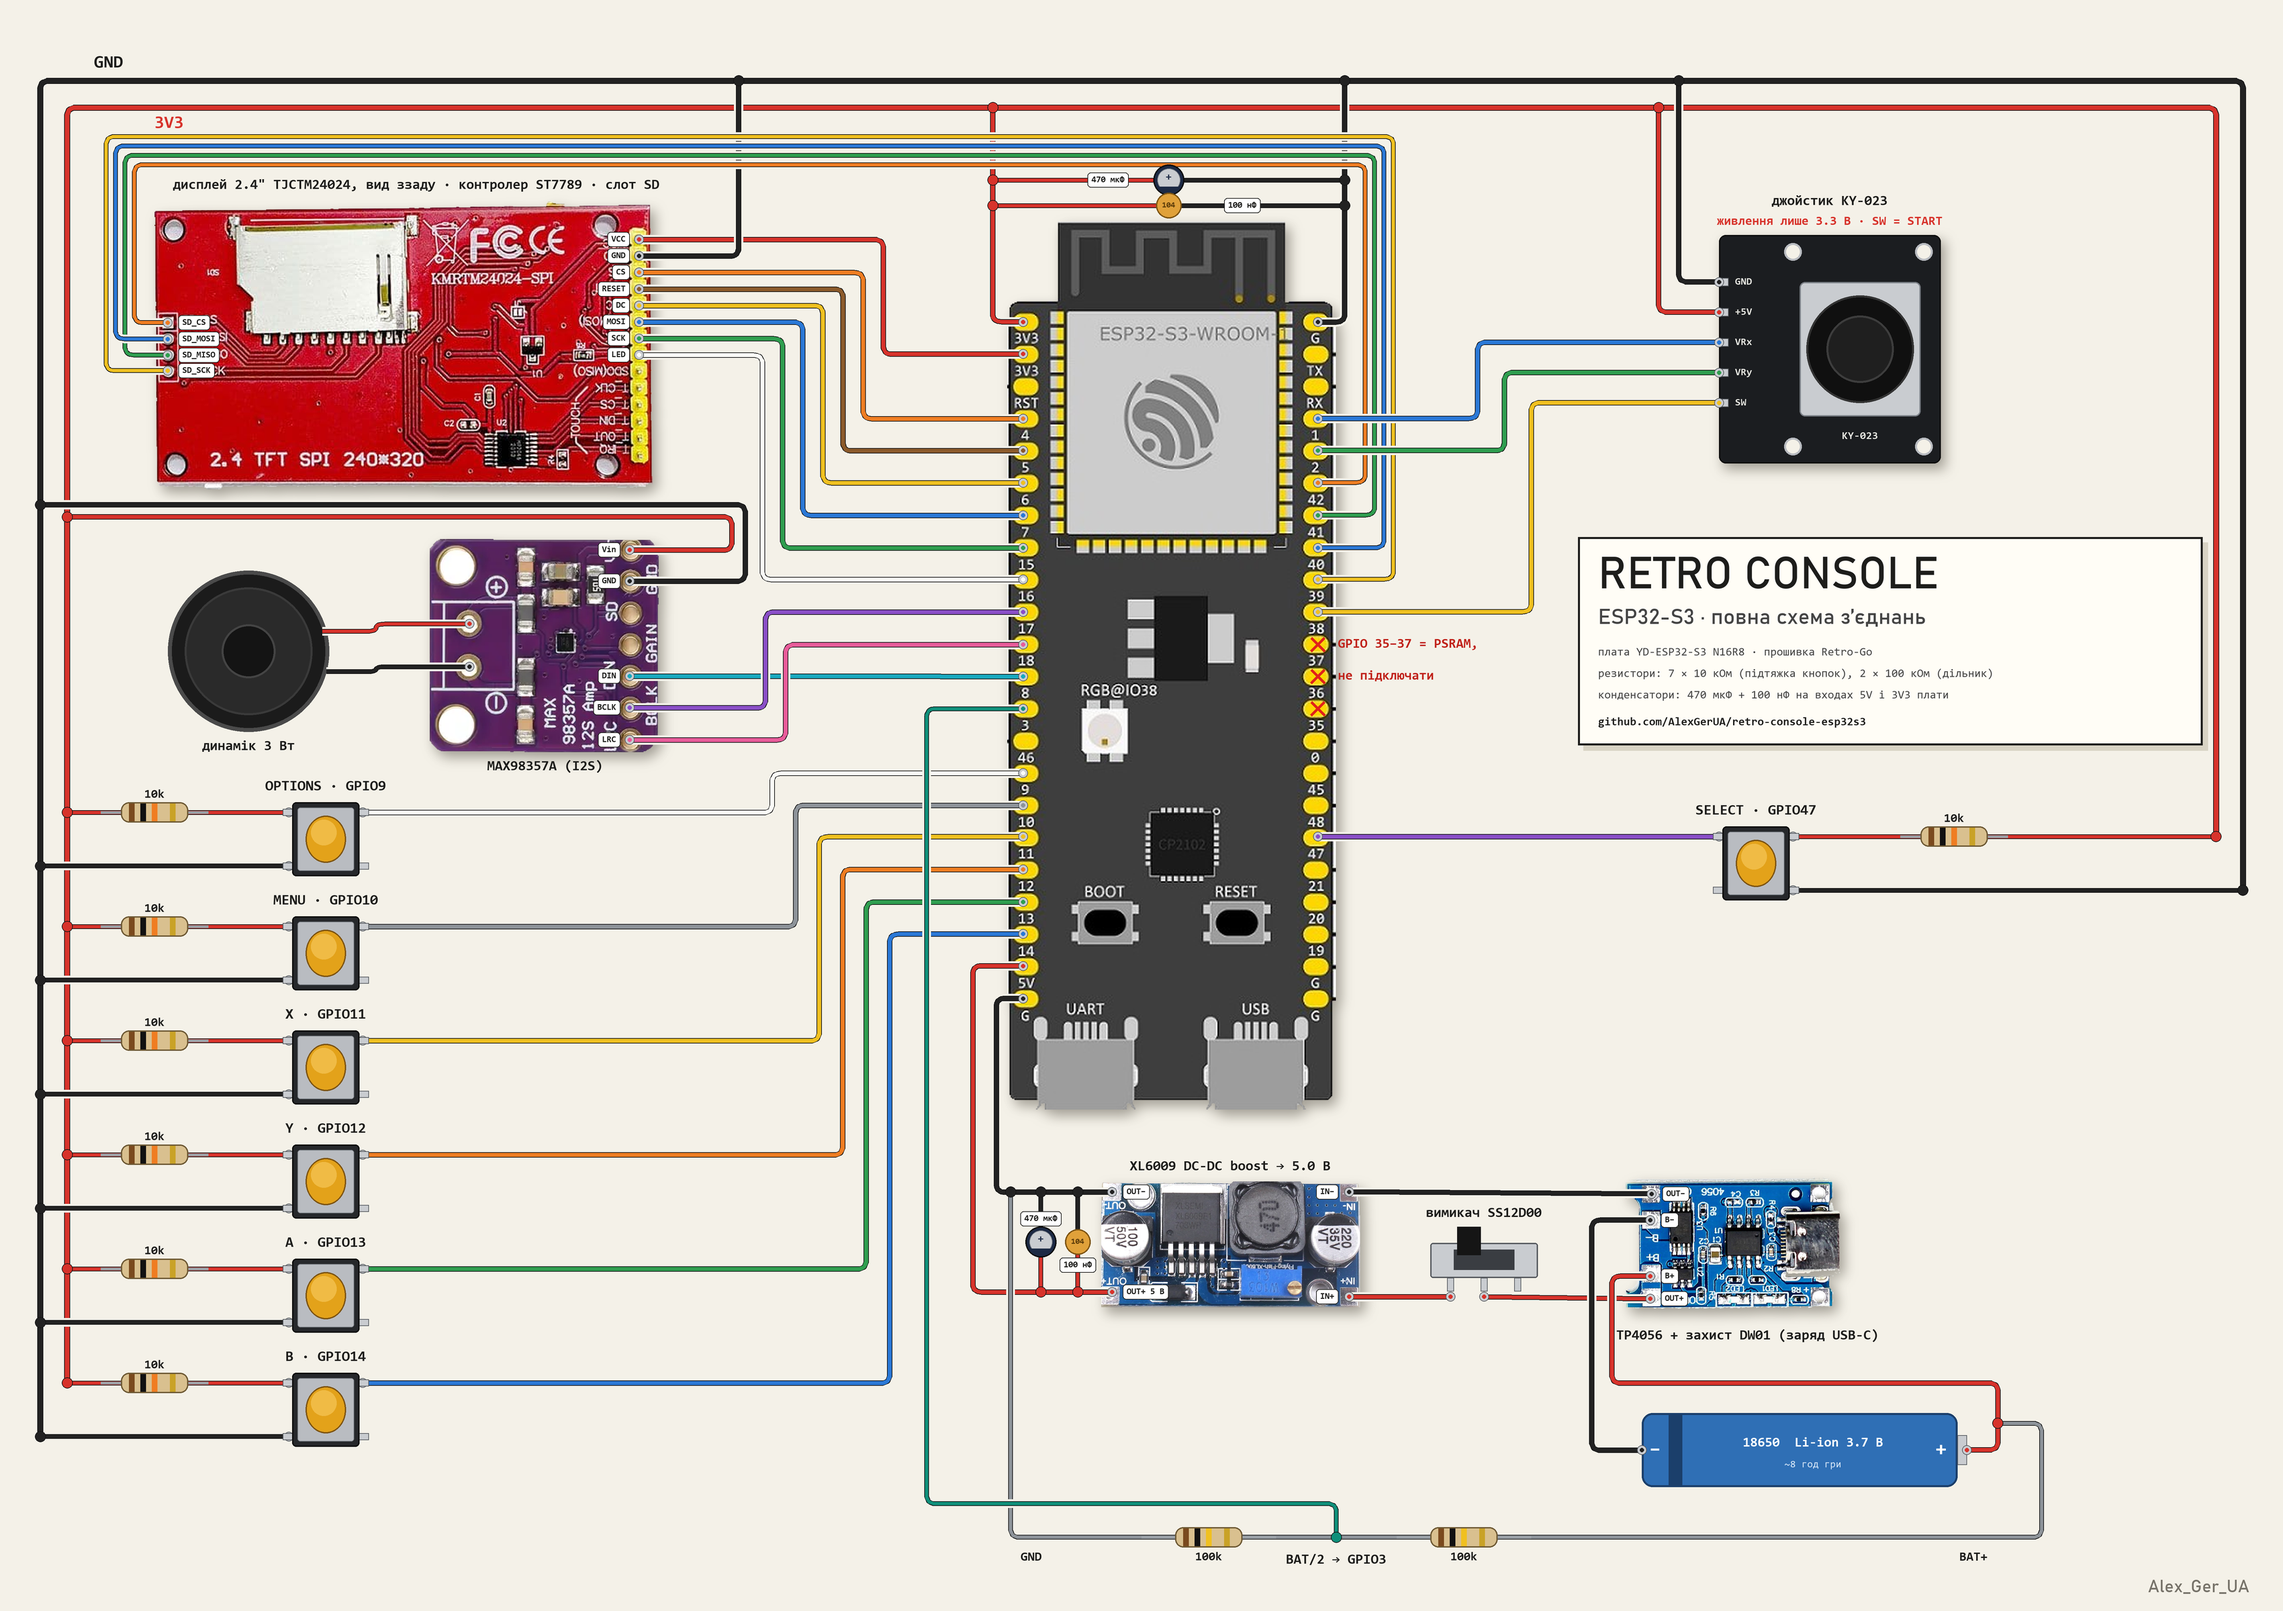
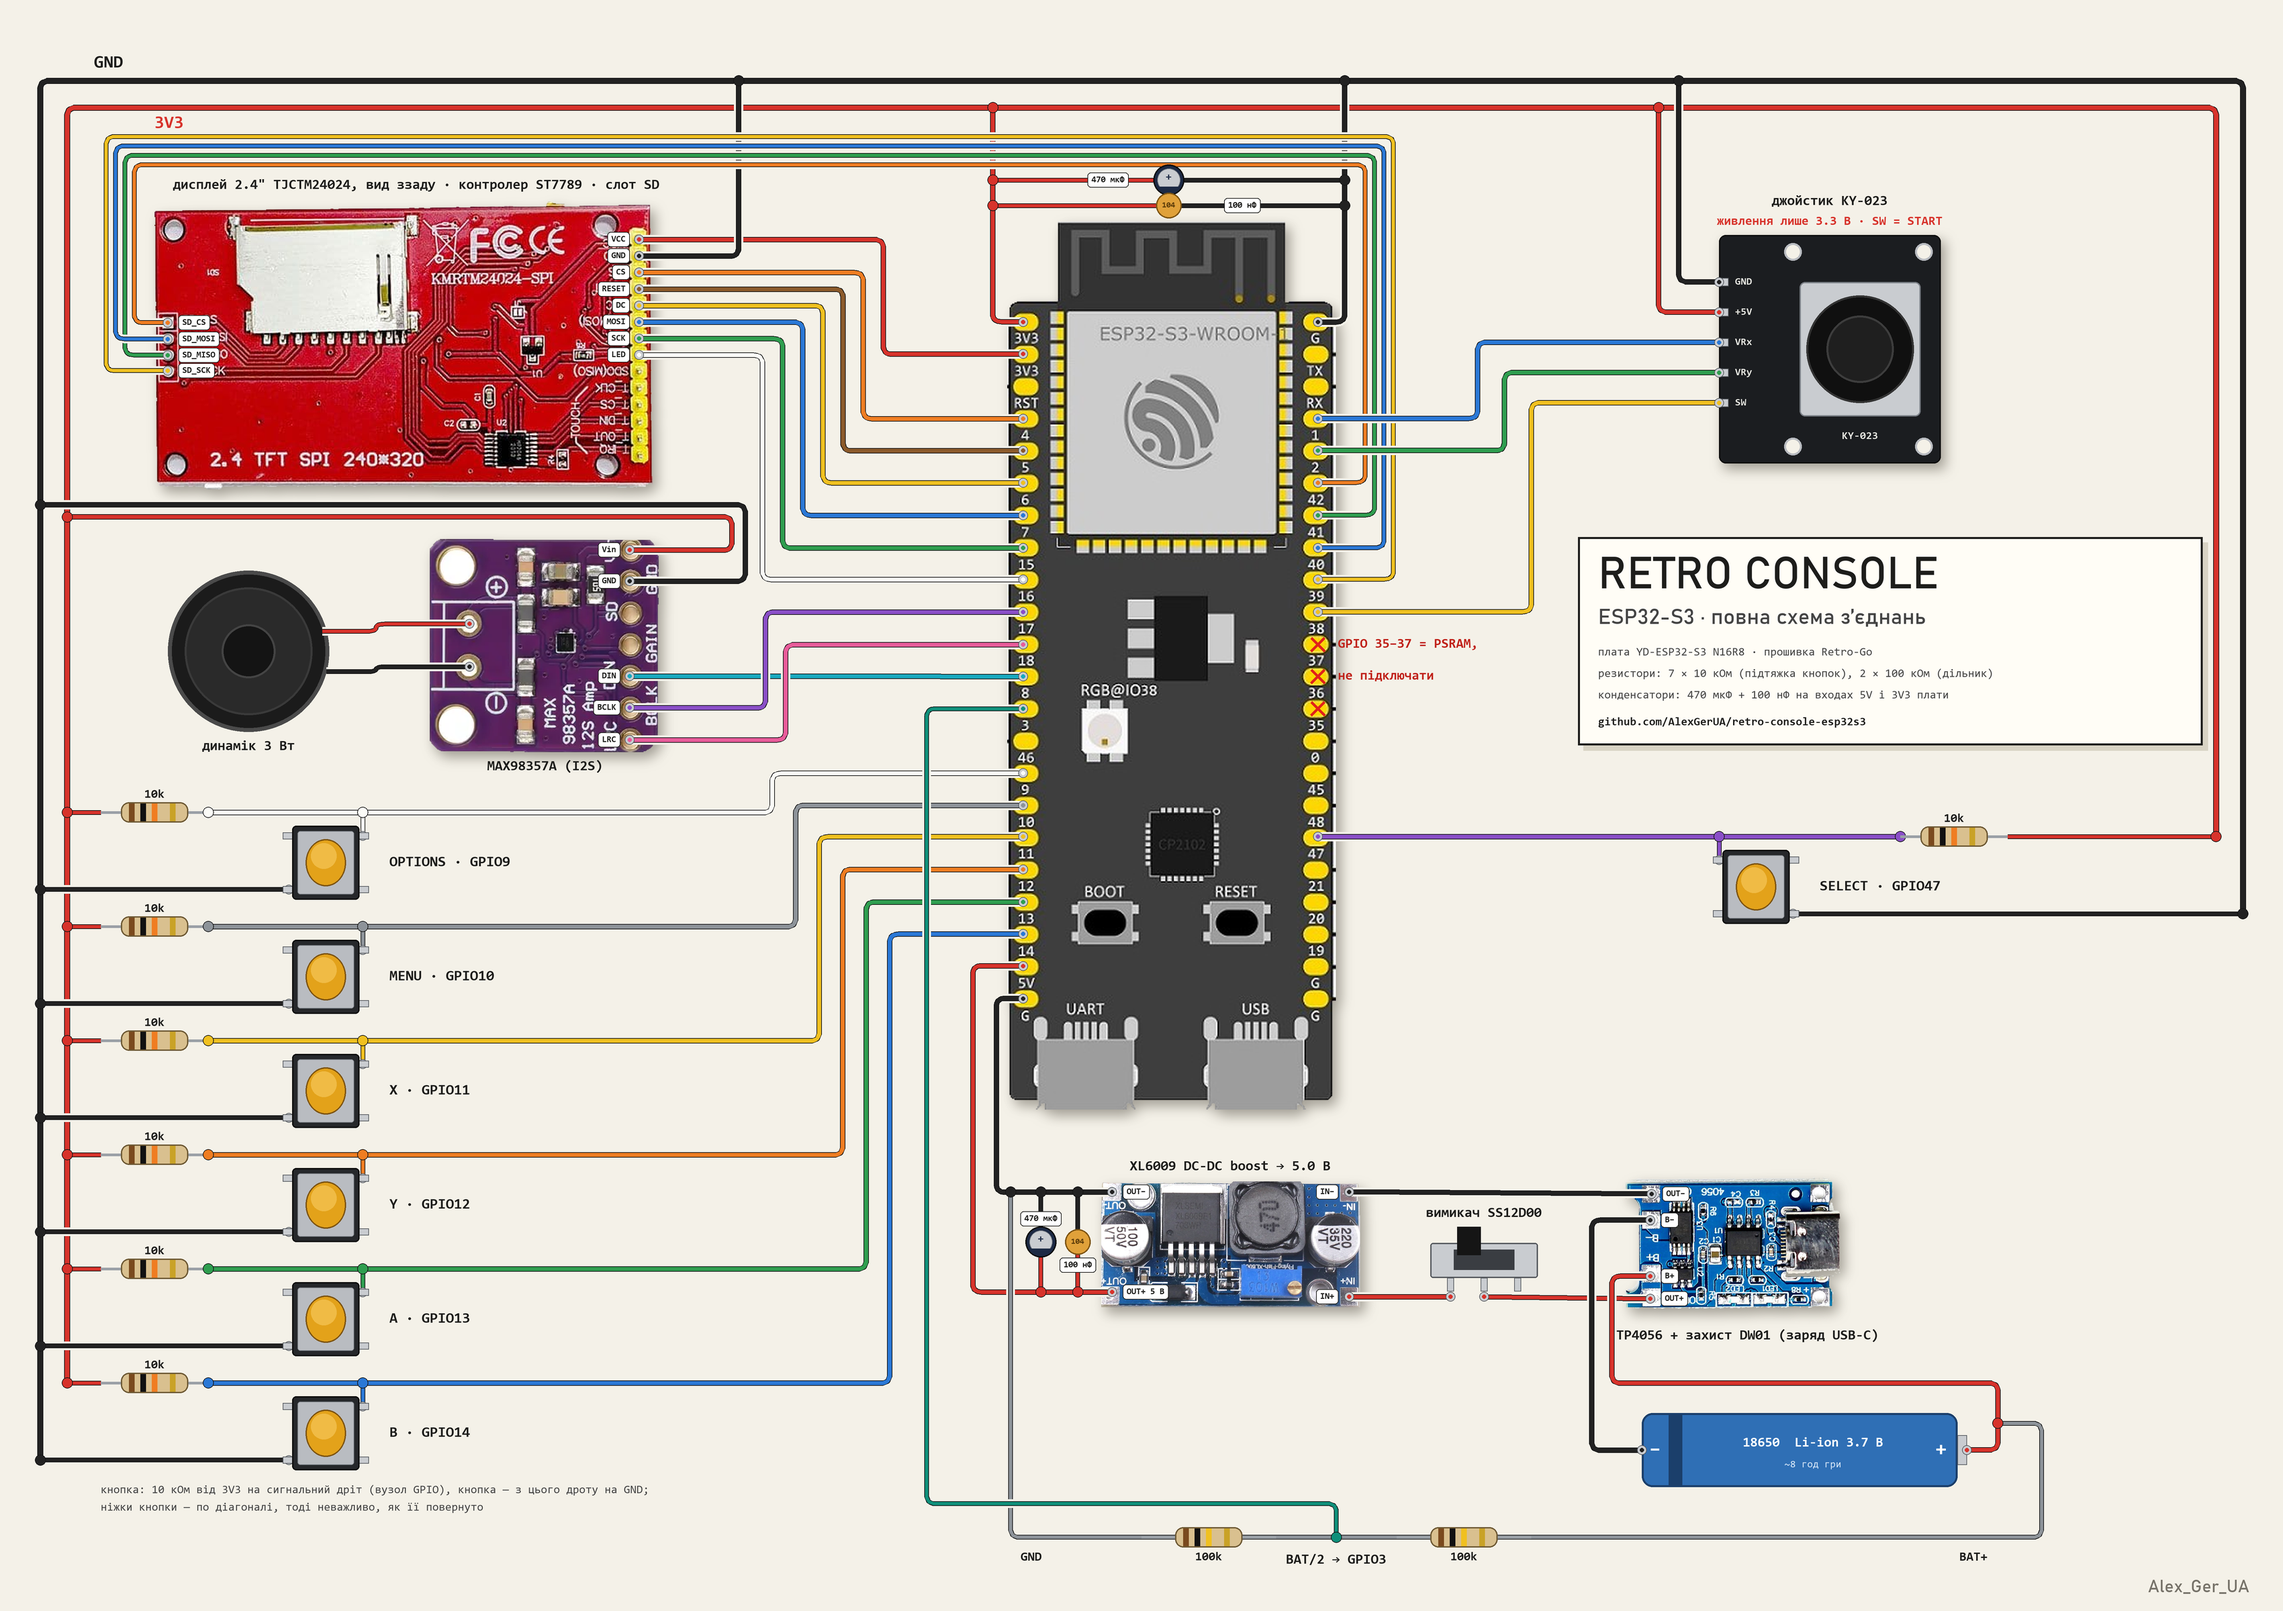
Pinout: pull-up resistor on the signal wire, button from the wire to GND
Why: in the old diagram the 10k pull-up went to one leg of the tact switch
and the GPIO wire to another leg. The pull-up then reached the GPIO only
through the button's internal leg pair, so the circuit depended on which
legs of a particular 4-leg switch are joined inside. Turn the button 90
degrees and it reads "pressed" forever, or the GPIO floats.

Now (same as the Bruce Smoochie board): 10k goes from 3V3 straight onto the
signal wire that runs to the GPIO, and the button hangs off that same wire
to GND, using diagonal legs (a diagonal pair is always the switched pair).
Works with any button type and any orientation.

README: new "How to wire the buttons" section with a text schematic, the
reason, and a multimeter check.

Changed region(s): [[0.0, 0.4688, 0.2182, 0.9375], [0.7482, 0.5, 0.8729, 0.5938]]

diff --git a/docs/make_pinout.py b/docs/make_pinout.py
@@ -152,8 +152,10 @@ def cap(x, y0, y1, val='100n'):
     text(x - 28, cy, val, 17, anchor='rm')
 
 
-def button(x, y, name, gpio):
-    """12x12 tact switch. (x, y) = top-left leg, legs 110 apart horizontally, 80 vertically."""
+def button(x, y, name, gpio, label_at=None):
+    """12x12 tact switch. (x, y) = top-left leg, legs 110 apart horizontally, 80 vertically.
+    Wired by DIAGONAL legs (top-right / bottom-left or top-left / bottom-right): a diagonal pair is
+    always the switched pair, whichever way the 4-leg button is turned."""
     for lx in (x, x + 110):
         for ly in (y, y + 80):
             d.rectangle(P(lx - 9, ly - 5, lx + 9, ly + 5), fill='#c9ccd0', outline='#55595e', width=S)
@@ -161,7 +163,10 @@ def button(x, y, name, gpio):
     d.rounded_rectangle(P(x + 13, y - 7, x + 97, y + 87), 4 * S, fill='#b9bcc1', outline='#7a7f86', width=S)
     d.ellipse(P(x + 25, y + 5, x + 85, y + 75), fill='#e3a21a', outline='#7d5412', width=2 * S)
     d.ellipse(P(x + 33, y + 11, x + 71, y + 49), fill='#f0bb45')
-    text(x + 55, y - 38, f'{name} · GPIO{gpio}', 22, anchor='mm')
+    if label_at is None:
+        text(x + 55, y - 38, f'{name} · GPIO{gpio}', 22, anchor='mm')
+    else:
+        text(label_at[0], label_at[1], f'{name} · GPIO{gpio}', 22)
 
 
 # =====================================================================================
@@ -203,7 +208,7 @@ CELL0, CELL_DY = 1210, 170
 last = CELL0 + 5 * CELL_DY
 SEL_Y = YR['47']
 
-wire([(GND_XL, last + 80), (GND_XL, GND_Y), (GND_XR, GND_Y), (GND_XR, SEL_Y + 80)], 'black', 7, (False, False))
+wire([(GND_XL, last + 115), (GND_XL, GND_Y), (GND_XR, GND_Y), (GND_XR, SEL_Y + 115)], 'black', 7, (False, False))
 wire([(V33_XL, last), (V33_XL, V33_Y), (V33_XR, V33_Y), (V33_XR, SEL_Y)], 'red', 7, (False, False))
 text(GND_XL + 80, GND_Y - 26, 'GND', 26)
 text(V33_XL + 130, V33_Y + 24, '3V3', 26, C['red'])
@@ -268,29 +273,46 @@ wire([(486, 1000), (560, 1000), (560, SPK_M[1]), SPK_M], 'black', 5, (False, Tru
 text(812, 1142, 'MAX98357A (I2S)', 21, anchor='mm')
 
 # =====================================================================================
-#  BUTTONS (left column) — each: 10k to 3V3, button to GND
+#  BUTTONS — 10k from 3V3 straight onto the SIGNAL wire (the GPIO node), the button hangs
+#  off that same wire to GND. Nothing depends on the button's internal leg pairs.
 # =====================================================================================
+BTN_DROP = 35                      # signal wire y -> top legs of the button
 cells = [('OPTIONS', '9', 'white'), ('MENU', '10', 'grey'), ('X', '11', 'yellow'), ('Y', '12', 'orange'),
          ('A', '13', 'green'), ('B', '14', 'blue')]
+BX = 430
 for i, (name, pin, col) in enumerate(cells):
-    yc = CELL0 + i * CELL_DY
+    yc = CELL0 + i * CELL_DY           # signal wire: pull-up node -> GPIO
+    by = yc + BTN_DROP
     ch = 1150 + 35 * i
-    wire([(540, yc), (ch, yc), (ch, YL[pin]), (LX, YL[pin])], col)
-    wire([(V33_XL, yc), (430, yc)], 'red', 5, (False, True))
+    wire([(V33_XL, yc), (150, yc)], 'red', 5, (False, False))
     dot(V33_XL, yc, 'red')
-    wire([(430, yc + 80), (GND_XL, yc + 80)], 'black', 5, (True, False))
-    dot(GND_XL, yc + 80, 'black')
     resistor(150, yc, 310, yc, '10k')
-    button(430, yc, name, pin)
+    wire([(310, yc), (ch, yc), (ch, YL[pin]), (LX, YL[pin])], col)
+    dot(310, yc, col)                  # pull-up joins the signal wire here
+    wire([(BX + 110, yc), (BX + 110, by)], col, 5, (False, True))
+    dot(BX + 110, yc, col)             # button taps the same signal wire
+    wire([(BX, by + 80), (GND_XL, by + 80)], 'black', 5, (True, False))
+    dot(GND_XL, by + 80, 'black')
+    button(BX, by, name, pin, (BX + 150, by + 40))
 
-# SELECT on the right
-wire([(RX, SEL_Y), (2560, SEL_Y)], 'purple')
-wire([(2670, SEL_Y), (V33_XR, SEL_Y)], 'red', 5, (True, False))
-dot(V33_XR, SEL_Y, 'red')
-wire([(2670, SEL_Y + 80), (GND_XR, SEL_Y + 80)], 'black', 5, (True, False))
-dot(GND_XR, SEL_Y + 80, 'black')
+# SELECT on the right: GPIO47 -> signal wire -> 10k -> 3V3, button from the wire to GND
+SBX = 2560
+sby = SEL_Y + BTN_DROP
+wire([(RX, SEL_Y), (2830, SEL_Y)], 'purple')
+dot(2830, SEL_Y, 'purple')
 resistor(2830, SEL_Y, 2990, SEL_Y, '10k')
-button(2560, SEL_Y, 'SELECT', '47')
+wire([(2990, SEL_Y), (V33_XR, SEL_Y)], 'red', 5, (False, False))
+dot(V33_XR, SEL_Y, 'red')
+wire([(SBX, SEL_Y), (SBX, sby)], 'purple', 5, (False, True))
+dot(SBX, SEL_Y, 'purple')
+wire([(SBX + 110, sby + 80), (GND_XR, sby + 80)], 'black', 5, (True, False))
+dot(GND_XR, sby + 80, 'black')
+button(SBX, sby, 'SELECT', '47', (SBX + 150, sby + 40))
+
+# legend: how a button is wired
+lx_, ly_ = 150, CELL0 + 5 * CELL_DY + 160
+text(lx_, ly_, 'кнопка: 10 кОм від 3V3 на сигнальний дріт (вузол GPIO), кнопка — з цього дроту на GND;', 17, '#444444', bold=False)
+text(lx_, ly_ + 26, 'ніжки кнопки — по діагоналі, тоді неважливо, як її повернуто', 17, '#444444', bold=False)
 
 # =====================================================================================
 #  JOYSTICK KY-023 (drawn)

diff --git a/README.md b/README.md
@@ -70,6 +70,27 @@ Game Boy / Color, Sega Master System / Game Gear та інші системи з
 Джерело правди — [`config.h` таргета](firmware/retro-go-overlay/components/retro-go/targets/retro-console/config.h).
 Кожна кнопка — на GND, з підтяжкою 10 кОм до 3V3 (дроти до кнопок довгі й ловлять
 наводки; внутрішньої підтяжки замало).
+
+#### Як підключати кнопки
+
+```
+3V3 ──[10 кОм]──┬────────────── GPIO
+                │
+              [кнопка]
+                │
+               GND
+```
+
+- Резистор 10 кОм іде від 3V3 **прямо на сигнальний дріт** — на той самий вузол, що
+  йде на GPIO. Кнопка стоїть між цим дротом і GND.
+- Не вішай резистор на одну ніжку кнопки, а GPIO — на іншу: тоді підтяжка доходить до
+  GPIO лише через внутрішнє з'єднання кнопки, і все залежить від того, які ніжки в
+  конкретної кнопки з'єднані між собою. Не вгадав — кнопка «натиснута» завжди або
+  GPIO висить у повітрі.
+- У тактової кнопки 12×12 чотири ніжки, попарно з'єднані всередині. Бери дві ніжки
+  **по діагоналі** — така пара завжди розмикається кнопкою, хоч як її поверни.
+  Сумніваєшся — продзвони мультиметром: ненатиснута кнопка — обрив, натиснута — 0 Ом.
+- Натиснуто = GPIO читає 0, відпущено = 1.
 На входах живлення плати (5V–G і 3V3–G) — по парі конденсаторів: електроліт 470 мкФ
 і кераміка 100 нФ.
 
